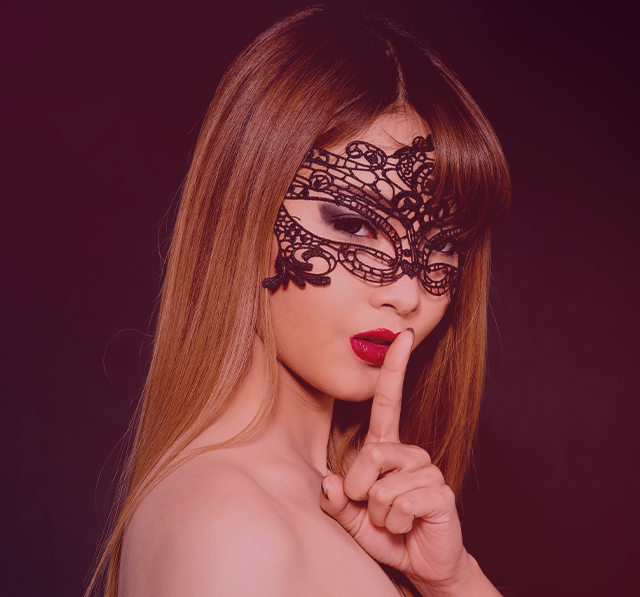
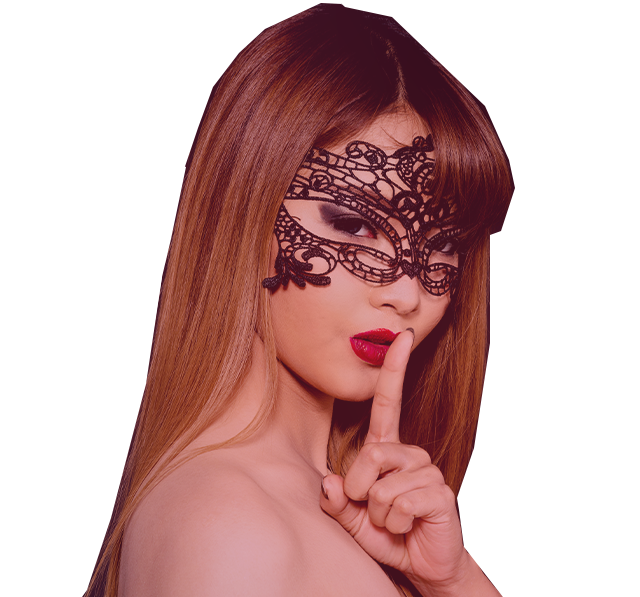
v1.1

diff --git a/css/style.css b/css/style.css
@@ -1,1 +1,1 @@
-@import url("https://fonts.googleapis.com/css2?family=Poppins:wght@300;500;700&display=swap");@font-face{font-family:'Helvetica Neue Bold';src:url("../fonts/HelveticaNeueCyr-Bold.ttf")}html,body,div,span,applet,object,iframe,h1,h2,h3,h4,h5,h6,p,blockquote,pre,a,abbr,acronym,address,big,cite,code,del,dfn,em,img,ins,kbd,q,s,samp,small,strike,strong,sub,sup,tt,var,b,u,i,center,dl,dt,dd,ol,ul,li,fieldset,form,label,legend,table,caption,tbody,tfoot,thead,tr,th,td,article,aside,canvas,details,embed,figure,figcaption,footer,header,hgroup,menu,nav,output,ruby,section,summary,time,mark,audio,video{margin:0;padding:0;border:0;font-size:100%;font:inherit;vertical-align:baseline}article,aside,details,figcaption,figure,footer,header,hgroup,menu,nav,section{display:block}body{line-height:1}ol,ul{list-style:none}blockquote,q{quotes:none}blockquote:before,blockquote:after,q:before,q:after{content:"";content:none}table{border-collapse:collapse;border-spacing:0}body{background:url("../img/bg.png") no-repeat,-webkit-gradient(linear, left top, left bottom, from(#0b000f), color-stop(56%, #080008), color-stop(99%, #0b000f)),#0b000f;background:url("../img/bg.png") no-repeat,linear-gradient(to bottom, #0b000f 0%, #080008 56%, #0b000f 99%),#0b000f;color:white}.container{display:-webkit-box;display:-ms-flexbox;display:flex}.logo{-webkit-box-flex:0.2;-ms-flex:0.2;flex:0.2}.logo_image{position:absolute;left:58px;top:40px}.poster{-webkit-box-flex:0.3;-ms-flex:0.3;flex:0.3;visibility:hidden}.interaction{-webkit-box-flex:0.5;-ms-flex:0.5;flex:0.5;height:100%}.interaction__lock{position:relative;top:55px;left:448px}.interaction__title{position:relative;top:108px;left:81px;line-height:1.667;font-family:'Poppins', 'Helvetica', sans-serif}.interaction__title_text{font-weight:500;font-size:46px;text-transform:uppercase;text-align:center;text-shadow:0px 3px 1.94px rgba(0,0,0,0.15);letter-spacing:8px;color:#ffca8d}.interaction__subtitle{position:relative;top:110px;left:74px;line-height:1.842;font-family:'Poppins', 'Helvetica', sans-serif}.interaction__subtitle_text{font-size:38px;font-weight:300;text-align:center;letter-spacing:4.3px;text-shadow:0px 3px 1.94px rgba(0,0,0,0.15);color:white}.interaction__subtitle_text--bottom{position:relative;left:5px}.interaction__subtitle_text_bold{position:relative;left:2px;font-weight:700;text-transform:uppercase}.interaction__shine{position:relative;top:97px;left:376px}.interaction__shine_image{opacity:0.5}.interaction__more{position:relative;top:125px;left:368px;font-family:'Helvetica Neue Bold', 'Helvetica', sans-serif}.interaction__more_button{font-family:inherit;font-size:20px;font-weight:bold;letter-spacing:1px;vertical-align:center;width:360px;height:77px;background-color:#e30b5d;border:none;border-radius:9px;color:white;text-transform:uppercase;line-height:2;letter-spacing:1.4px;text-align:center;text-shadow:0px 5px 7.44px rgba(0,0,0,0.16);-webkit-transform:matrix(0.9, 0, 0, 0.9, 0, 0);transform:matrix(0.9, 0, 0, 0.9, 0, 0);outline-width:0}.interaction__more_button:hover{cursor:pointer;background-color:#43132d}.interaction__more_button:active{background-color:#43132d;-webkit-box-shadow:0 3px 0rgba 0,0,0,0.16;box-shadow:0 3px 0rgba 0,0,0,0.16;margin-top:3px}@media (max-width: 640px){body{height:100%;background:-webkit-gradient(linear, left top, left bottom, from(#13041c), color-stop(15%, #411025), color-stop(30%, #411025), color-stop(45%, #13041c), color-stop(110%, #411025), color-stop(55%, #270619), color-stop(95%, #411025)),#13041c;background:linear-gradient(to bottom, #13041c 0%, #411025 15%, #411025 30%, #13041c 45%, #411025 110%, #270619 55%, #411025 95%),#13041c}.container{width:640px;display:-webkit-box;display:-ms-flexbox;display:flex;-ms-flex-flow:wrap;flex-flow:wrap;-webkit-box-orient:vertical;-webkit-box-direction:normal;-ms-flex-direction:column;flex-direction:column}.logo{-webkit-box-flex:0.2;-ms-flex:0.2;flex:0.2;-webkit-box-ordinal-group:1;-ms-flex-order:0;order:0;width:inherit}.logo_image{position:relative;left:197px;top:38px}.poster{-webkit-box-flex:0.2;-ms-flex:0.2;flex:0.2;-webkit-box-ordinal-group:3;-ms-flex-order:2;order:2;margin-top:103px;visibility:visible}.poster_image{width:101%;overflow-x:hidden}.interaction{-webkit-box-ordinal-group:2;-ms-flex-order:1;order:1;-webkit-box-flex:0.6;-ms-flex:0.6;flex:0.6}.interaction__lock{position:relative;left:225px;top:71px}.interaction__title{position:relative;left:17px;top:80px}.interaction__title_text{font-size:35px;letter-spacing:4px;position:relative;left:-13px}.interaction__subtitle{position:relative;left:0;top:80px}.interaction__subtitle_text{font-size:24.2px;position:relative;left:1px;top:1px}.interaction__subtitle_text--bottom{position:relative;left:4px;top:6px}.interaction__shine{position:relative;left:150px;top:75px}.interaction__more{position:relative;left:146px;top:84px}}
+@import url("https://fonts.googleapis.com/css2?family=Poppins:wght@300;500;700&display=swap");@font-face{font-family:'Helvetica Neue Bold';src:url("../fonts/HelveticaNeueCyr-Bold.ttf")}html,body,div,span,applet,object,iframe,h1,h2,h3,h4,h5,h6,p,blockquote,pre,a,abbr,acronym,address,big,cite,code,del,dfn,em,img,ins,kbd,q,s,samp,small,strike,strong,sub,sup,tt,var,b,u,i,center,dl,dt,dd,ol,ul,li,fieldset,form,label,legend,table,caption,tbody,tfoot,thead,tr,th,td,article,aside,canvas,details,embed,figure,figcaption,footer,header,hgroup,menu,nav,output,ruby,section,summary,time,mark,audio,video{margin:0;padding:0;border:0;font-size:100%;font:inherit;vertical-align:baseline}article,aside,details,figcaption,figure,footer,header,hgroup,menu,nav,section{display:block}body{line-height:1}ol,ul{list-style:none}blockquote,q{quotes:none}blockquote:before,blockquote:after,q:before,q:after{content:"";content:none}table{border-collapse:collapse;border-spacing:0}body{background:-webkit-gradient(linear, left top, right top, from(#13041c), color-stop(15%, #411025), color-stop(30%, #411025), color-stop(45%, #13041c), color-stop(110%, #411025), color-stop(55%, #270619), color-stop(95%, #411025)),#13041c;background:linear-gradient(to right, #13041c 0%, #411025 15%, #411025 30%, #13041c 45%, #411025 110%, #270619 55%, #411025 95%),#13041c;color:white;overflow-x:hidden}.container{display:-webkit-box;display:-ms-flexbox;display:flex}.logo{-webkit-box-flex:0.1;-ms-flex:0.1;flex:0.1}.logo_image{position:absolute;left:58px;top:40px}.poster{-webkit-box-flex:0.4;-ms-flex:0.4;flex:0.4;position:relative;left:80px}.poster_image{width:813px;height:1080px;z-index:2}.poster_image--desktop{display:block}.poster_image--mobile{display:none}.interaction{-webkit-box-flex:0.5;-ms-flex:0.5;flex:0.5;height:100%;position:relative;right:30px}.interaction__lock{position:relative;top:55px;left:422px}.interaction__title{position:relative;top:108px;left:83px;line-height:1.667;font-family:'Poppins', 'Helvetica', sans-serif}.interaction__title_text{font-weight:500;font-size:46px;text-transform:uppercase;text-align:center;text-shadow:0px 3px 1.94px rgba(0,0,0,0.15);letter-spacing:8px;color:#ffca8d}.interaction__subtitle{position:relative;top:110px;left:74px;line-height:1.842;font-family:'Poppins', 'Helvetica', sans-serif}.interaction__subtitle_text{font-size:38px;font-weight:300;text-align:center;letter-spacing:4.3px;text-shadow:0px 3px 1.94px rgba(0,0,0,0.15);color:white}.interaction__subtitle_text--bottom{position:relative;left:5px}.interaction__subtitle_text_bold{position:relative;left:2px;font-weight:700;text-transform:uppercase}.interaction__shine{position:relative;top:98px;left:355px}.interaction__shine_image{opacity:0.5}.interaction__more{position:relative;top:123px;left:341px;font-family:'Helvetica Neue Bold', 'Helvetica', sans-serif}.interaction__more_button{font-family:inherit;font-size:20px;font-weight:bold;letter-spacing:1px;vertical-align:center;width:360px;height:77px;background-color:#e30b5d;border:none;border-radius:9px;color:white;text-transform:uppercase;line-height:2;letter-spacing:1.4px;text-align:center;text-shadow:0px 5px 7.44px rgba(0,0,0,0.16);-webkit-transform:matrix(0.9, 0, 0, 0.9, 0, 0);transform:matrix(0.9, 0, 0, 0.9, 0, 0);outline-width:0}.interaction__more_button:hover{cursor:pointer;background-color:#43132d}.interaction__more_button:active{background-color:#43132d;-webkit-box-shadow:0 3px 0rgba 0,0,0,0.16;box-shadow:0 3px 0rgba 0,0,0,0.16;margin-top:3px}@media (max-width: 640px){body{height:100%;background:-webkit-gradient(linear, left top, left bottom, from(#13041c), color-stop(15%, #411025), color-stop(30%, #411025), color-stop(45%, #13041c), color-stop(110%, #411025), color-stop(55%, #270619), color-stop(95%, #411025)),#13041c;background:linear-gradient(to bottom, #13041c 0%, #411025 15%, #411025 30%, #13041c 45%, #411025 110%, #270619 55%, #411025 95%),#13041c}.container{width:640px;display:-webkit-box;display:-ms-flexbox;display:flex;-ms-flex-flow:wrap;flex-flow:wrap;-webkit-box-orient:vertical;-webkit-box-direction:normal;-ms-flex-direction:column;flex-direction:column}.logo{-webkit-box-flex:0.2;-ms-flex:0.2;flex:0.2;-webkit-box-ordinal-group:1;-ms-flex-order:0;order:0;width:inherit}.logo_image{position:relative;left:197px;top:38px}.poster{-webkit-box-flex:0.2;-ms-flex:0.2;flex:0.2;-webkit-box-ordinal-group:3;-ms-flex-order:2;order:2;margin-top:103px}.poster_image{width:101%;overflow-x:hidden}.poster_image--desktop{display:none}.poster_image--mobile{display:block}.interaction{-webkit-box-ordinal-group:2;-ms-flex-order:1;order:1;-webkit-box-flex:0.5;-ms-flex:0.5;flex:0.5}.interaction__lock{position:relative;left:225px;top:71px}.interaction__title{position:relative;left:17px;top:80px}.interaction__title_text{font-size:35px;letter-spacing:4px;position:relative;left:-13px}.interaction__subtitle{position:relative;left:0;top:80px}.interaction__subtitle_text{font-size:24.2px;position:relative;left:1px;top:1px}.interaction__subtitle_text--bottom{position:relative;left:4px;top:6px}.interaction__shine{position:relative;left:150px;top:75px}.interaction__more{position:relative;left:146px;top:84px}}

diff --git a/sass/_parts/_interaction.sass b/sass/_parts/_interaction.sass
@@ -1,17 +1,18 @@
 .interaction
     flex: 0.5
     height: 100%
-
+    position: relative
+    right: 30px
     &__lock
         // 'relative' to save place of element order in the HTML markup, just to 'fine tune'.
         position: relative
         top: 55px
-        left: 448px
+        left: 422px
 
     &__title
         position: relative
         top: 108px
-        left: 81px
+        left: 83px
         line-height: 1.667
         // Google Fonts could not load sometimes. Helvetica 100% works in windows. sans-serif 100% works everywhere.
         font-family: 'Poppins', 'Helvetica', sans-serif
@@ -49,16 +50,16 @@
 
     &__shine
         position: relative
-        top: 97px
-        left: 376px
+        top: 98px
+        left: 355px
         &_image
             opacity: 0.5
             
 
     &__more
         position: relative
-        top: 125px
-        left: 368px
+        top: 123px
+        left: 341px
         font-family: 'Helvetica Neue Bold', 'Helvetica', sans-serif
         &_button
             font-family: inherit

diff --git a/sass/style.sass b/sass/style.sass
@@ -9,10 +9,9 @@
 
 // I had checked everything with the Pixel Perfect. The problem is that the layout for desktop (MAYBE!) is too wide. Anyway I write down main background url (this big girl) and fallback gradient & color which is the same as in the picture.    
 body
-    // I could use just a gradient but it takes too much code to replay as in the pic. So I decided to use gradient as a fallback
-    background: url("../img/bg.png") no-repeat, 
-    linear-gradient(to bottom, #0b000f 0%,#080008 56%,#0b000f 99%), #0b000f
+    background: linear-gradient(to right, #13041c 0%, #411025 15%, #411025 30%, #13041c 45%, #411025 110%, #270619 55%, #411025 95%),#13041c
     color: white // color for 'alt' attributes (another text tags have their own color)
+    overflow-x: hidden // PSD layout's width was bigger than the screen has :\
 
 // Easily divide the page to 3 logical sections using flexbox.
 .container

diff --git a/index.html b/index.html
@@ -18,7 +18,8 @@
       </div>
       <div class="poster">
         <!-- CSS trick - this img is shown in mobile version only -->
-        <img class="poster_image" src="img/bg_mobile_1.png" alt="Come on! ;)">
+        <img class="poster_image poster_image--mobile" src="img/bg_mobile.png" alt="Come on! ;)">
+        <img class="poster_image poster_image--desktop" src="img/bg_desktop.png" alt="Come on! ;)">
       </div>
       <div class="interaction">
         <div class="interaction__lock">

diff --git a/sass/_parts/_poster.sass b/sass/_parts/_poster.sass
@@ -1,3 +1,13 @@
 .poster
-    flex: 0.3
-    visibility: hidden // hide an img tag (for mobile version), but there is still a space for this div 
+    flex: 0.4
+    position: relative
+    left: 80px
+    //visibility: hidden // hide an img tag (for mobile version), but there is still a space for this div 
+    &_image
+        width: 813px
+        height: 1080px
+        z-index: 2
+        &--desktop
+            display: block
+        &--mobile
+            display: none

diff --git a/sass/_media/_parts/_poster.sass b/sass/_media/_parts/_poster.sass
@@ -3,7 +3,11 @@
     flex: 0.2
     order: 2
     margin-top: 103px // make 'interaction' section higher
-    visibility: visible // show an img tag (for mobile version)
+    //visibility: visible // show an img tag (for mobile version)
     &_image
         width: 101% // gradient the same color as poster image, part 2
         overflow-x: hidden
+        &--desktop
+            display: none
+        &--mobile
+            display: block

diff --git a/sass/_parts/_logo.sass b/sass/_parts/_logo.sass
@@ -1,5 +1,5 @@
 .logo
-    flex: 0.2
+    flex: 0.1
     &_image
         // 'absolute' here = regarding to the whole page. I think it is enough.
         position: absolute

diff --git a/sass/_media/_parts/_interaction.sass b/sass/_media/_parts/_interaction.sass
@@ -1,7 +1,7 @@
 // mobile!
 .interaction
     order: 1
-    flex: 0.6
+    flex: 0.5
     &__lock
         position: relative
         left: 225px
